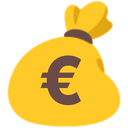
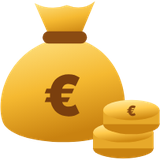
Sac de diners amb pila de monedes
Claude-Session: https://claude.ai/code/session_013gP9Np3bWWqT9aooNCkj8t

diff --git a/public/index.html b/public/index.html
@@ -1241,7 +1241,7 @@ function hipFor(props, y){
 }
 function moneyLine(list, hip, lead){
   const inc=sum(list.filter(x=>x.type==="ingres"&&x.category!=="Fiança")), out=sum(list.filter(x=>x.type==="despesa"&&x.category!=="Despeses de compra"));
-  return `<div class="totals mline">${lead?`<span class="tlead">${lead}</span>`:""}<span class="${hip?"tinc":""}"><small>Ingressos</small><b class="num pos">${eur(inc)}</b></span><span><small>Despeses</small><b class="num neg">${eur(out)}</b></span>${hip?`<span><small>Hipoteca</small><b class="num neg">${eur(hip)}</b></span>`:""}<span class="brk"></span><span class="netpill" title="No compta les fiances ni les despeses de compra (notari, impostos…), però sí la hipoteca"><span class="ni"><img src="/sac.png?v=2" alt=""></span><span class="nt">Net a la butxaca</span><b class="num">${eur(inc-out-hip)}</b></span></div>`;
+  return `<div class="totals mline">${lead?`<span class="tlead">${lead}</span>`:""}<span class="${hip?"tinc":""}"><small>Ingressos</small><b class="num pos">${eur(inc)}</b></span><span><small>Despeses</small><b class="num neg">${eur(out)}</b></span>${hip?`<span><small>Hipoteca</small><b class="num neg">${eur(hip)}</b></span>`:""}<span class="brk"></span><span class="netpill" title="No compta les fiances ni les despeses de compra (notari, impostos…), però sí la hipoteca"><span class="ni"><img src="/sac.png?v=3" alt=""></span><span class="nt">Net a la butxaca</span><b class="num">${eur(inc-out-hip)}</b></span></div>`;
 }
 function yearLine(vm){
   const y=today().slice(0,4), ym=vm.filter(x=>String(x.date).startsWith(y));
